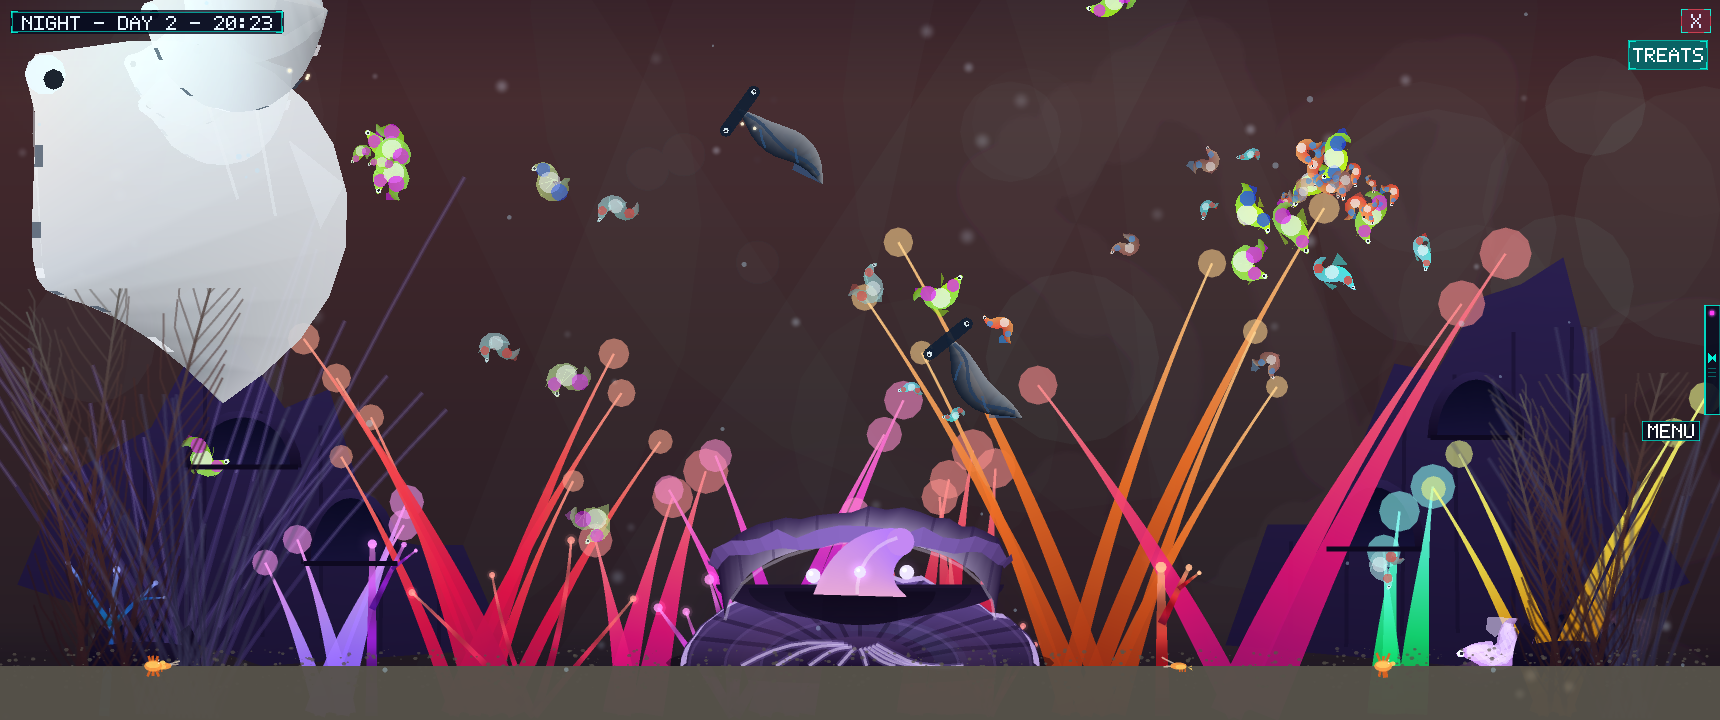
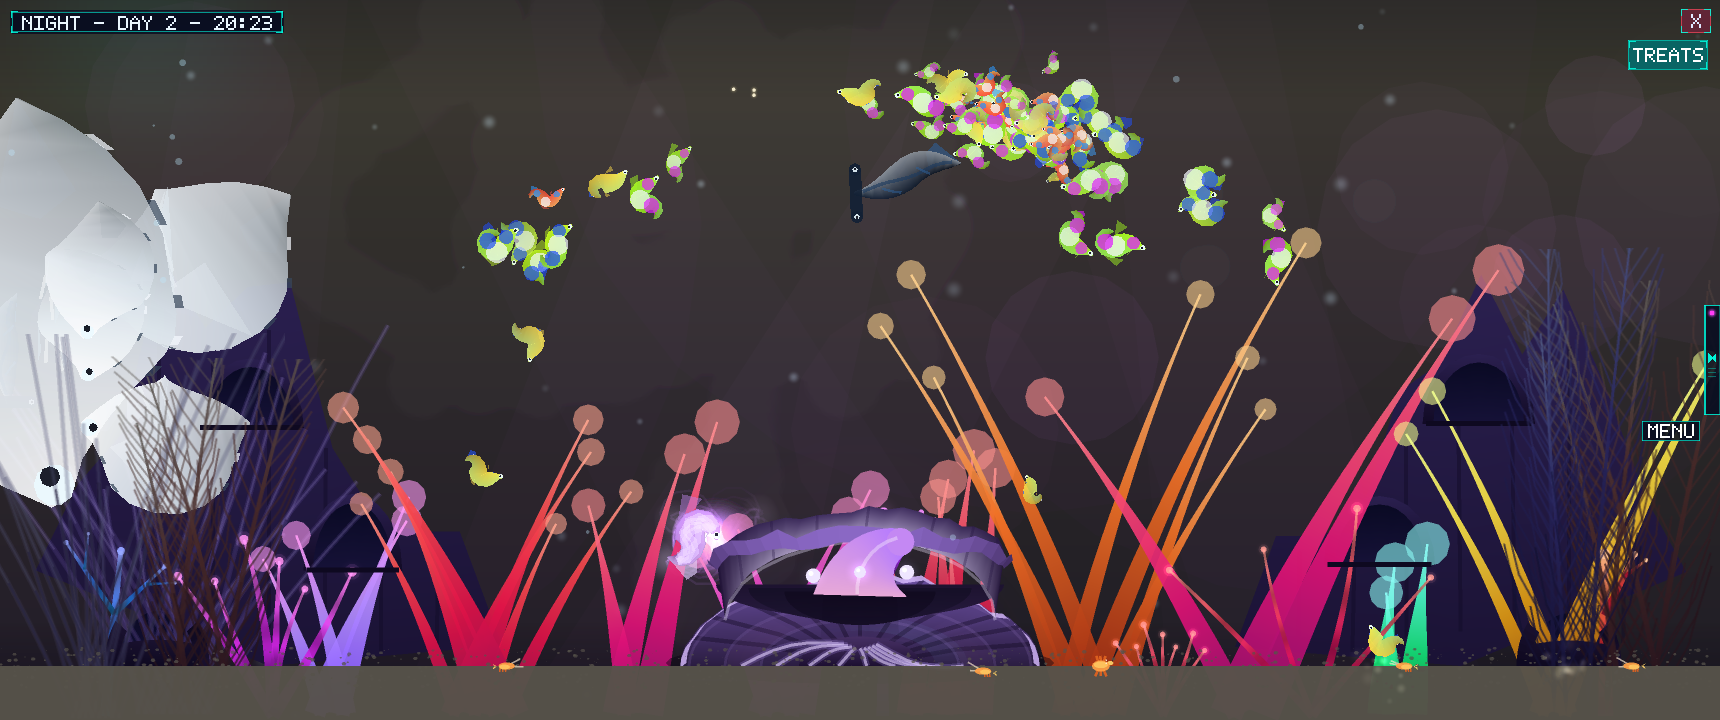
Big bodies stay wholly inside the view (G66)
The titan pod still carried the visit-era freeEdge exemption: giants
skipped the horizontal bounds entirely, and the tall scalare frames
clipped through the top edge of the view.

Bounds are now universal (applyFrameBounds): every fish is contained,
and the big residents carry a body-scaled top margin (0.42 body lengths
+ 6 px) that covers the trailing cone's dive excursion, plus a
body-relative ceiling force so the pod cruises below the edge by
steering, not by grinding a clamp. The 180-degree glass curl now
triggers at half the body length + 24 px (superseding the width-fraction
TitanEdgeTurn), giving the whole sweeping arc room to turn inside the
view. clampBodyInFrame is the final guarantee: a per-point canvas clamp
whose only visible effect is a few pixels of glass contact on a grazing
tail -- bounded, never a teleport, never a fold across open water.

TestTitanBodiesStayInFrame drives 120 s of sweeps with corner startle
bolts and asserts every spine point of every titan and shark stays
inside the canvas (worst margin 3.0 px); spawnPod lays its chain inside
the canvas; the fold and time-lapse judges measure open-water bends
only -- a glass graze is pinned contact, not a whip.

diff --git a/internal/sim/timelapse_test.go b/internal/sim/timelapse_test.go
@@ -13,8 +13,8 @@ import (
 )
 
 func TestTimeLapseEveryEyeLeadsItsMotion(t *testing.T) {
-	cfg := contract.Config{MaxFish: 16, DaySeconds: 120}
-	w := NewWorld(800, 600, cfg, []*contract.Species{
+	cfg := contract.Config{MaxFish: 24, DaySeconds: 120}
+	w := NewWorld(1720, 720, cfg, []*contract.Species{
 		cappedNormalSpecies("tl-neon-a", false),
 		cappedNormalSpecies("tl-neon-b", false),
 		titanTestSpecies(), sharkTestSpecies(), chosenTestSpecies(),
@@ -58,11 +58,25 @@ func TestTimeLapseEveryEyeLeadsItsMotion(t *testing.T) {
 				a := sub(f.Spine[j], f.Spine[j-1])
 				b := sub(f.Spine[j+1], f.Spine[j])
 				la, lb := hyp2(a), hyp2(b)
-				if la < 1e-6 || lb < 1e-6 {
+				// collapsed pairs are boundary-slide stacking (G66 canvas
+				// guard), not coils -- a real coil bends full segments
+				if la < f.segLen*0.5 || lb < f.segLen*0.5 {
+					continue
+				}
+				// a graze along the glass reads as a kink here but is a
+				// pinned contact, not a whip -- judge open-water bends only;
+				// the contact band scales with the body
+				band := f.bodyLen*0.12 + 4
+				mid := f.Spine[j]
+				if mid.X < band || mid.X > w.W-band || mid.Y < band || mid.Y > w.H-band {
 					continue
 				}
 				if ang := math.Acos(clampF(dot2(a, b)/(la*lb), -1, 1)); ang > worstBend {
 					worstBend = ang
+					t.Logf("kink %.2f rad: %s seg %d at (%.0f,%.0f)->(%.0f,%.0f)->(%.0f,%.0f) segLen=%.1f",
+						ang, f.Sp.ID, j,
+						f.Spine[j-1].X, f.Spine[j-1].Y, f.Spine[j].X, f.Spine[j].Y,
+						f.Spine[j+1].X, f.Spine[j+1].Y, f.segLen)
 				}
 			}
 			// the swim law every frame: the velocity never opposes the eye
@@ -170,4 +184,47 @@ func TestNoFishTeleportsAtTheNestRim(t *testing.T) {
 	if worst > 0 {
 		t.Fatalf("teleport: %s jumped %.1f px beyond its own speed budget in a single frame", worstFish, worst)
 	}
+}
+
+// G66: no part of a big body ever leaves the view. The pod and the
+// hammerhead pair run 120 s of sweeps with startle bolts fired at the
+// corners; every sampled frame, every spine point of every titan and shark
+// stays inside the canvas.
+func TestTitanBodiesStayInFrame(t *testing.T) {
+	w := titanWorld(t, 8)
+	w.Update(0.05, Input{}) // pod spawns
+	var bigs []*Fish
+	for _, f := range w.fishes {
+		if f.Sp.Role == contract.RoleTitan || f.Sp.Role == contract.RoleShark {
+			bigs = append(bigs, f)
+		}
+	}
+	if len(bigs) < 5 {
+		t.Fatalf("expected the pod (and pair) in frame, got %d big fish", len(bigs))
+	}
+	const dt = 0.05
+	worst := 1e18
+	for i := 0; i < 60*120; i++ { // 120 s
+		in := Input{}
+		if i%900 == 450 { // startle bolts at the corners mid-run
+			in = Input{MouseActive: true, MouseSpeed: 1500,
+				MouseX: float64((i/900)%2) * 800, MouseY: 40}
+		}
+		w.Update(dt, in)
+		if i%5 != 0 {
+			continue
+		}
+		for _, f := range bigs {
+			for j, p := range f.Spine {
+				if p.X < 0 || p.X > w.W || p.Y < 0 || p.Y > w.H {
+					t.Fatalf("t=%.0fs: %s spine point %d left the view at (%.0f,%.0f)",
+						float64(i)*dt, f.Sp.ID, j, p.X, p.Y)
+				}
+				if m := math.Min(math.Min(p.X, w.W-p.X), math.Min(p.Y, w.H-p.Y)); m < worst {
+					worst = m
+				}
+			}
+		}
+	}
+	t.Logf("in-frame ok: worst margin to the view edge %.1f px", worst)
 }

diff --git a/internal/contract/tuning.go b/internal/contract/tuning.go
@@ -157,19 +157,20 @@ const (
 	TitanFinScale      = 1.6  // dorsal/anal fins tower over the diamond
 	TitanSpineBendTurn = 0.18 // bend allowance while curling a 180° turn
 	TitanTurnWindow    = 2.6  // seconds a curl takes
-	TitanEdgeTurn      = 0.12 // fraction of the width where the curl triggers
-	TitanSpeedMin      = 0.25 // behavior speed clamp — the ponderous cruise
-	TitanSpeedMax      = 0.60
-	TitanLungeMul      = 10.0  // seekBonus while lunging (≥6× cruise burst, G41)
-	TitanSpineBend     = 0.085 // rad per segment — ≈63° total arc: the giant sweeps wide and never folds
-	SpineBendNormal    = 0.50  // rad per segment for the school (G63): the body may
+	// TitanEdgeTurn was superseded by the body-scaled curl trigger of G66:
+	// the turn now starts at half the body length + 24 px from the glass
+	TitanSpeedMin   = 0.25 // behavior speed clamp — the ponderous cruise
+	TitanSpeedMax   = 0.60
+	TitanLungeMul   = 10.0  // seekBonus while lunging (≥6× cruise burst, G41)
+	TitanSpineBend  = 0.085 // rad per segment — ≈63° total arc: the giant sweeps wide and never folds
+	SpineBendNormal = 0.50  // rad per segment for the school (G63): the body may
 	// arc like a rope around the swim axis but can never coil onto itself
 	NormalTurnRate = 5.0 // rad/s the school's motion direction may swing (G63):
 	// a rear target or a startle bends the path into an arc — no fish ever
 	// flips and glides tail-first
-	TitanLungeSec      = 1.2   // burst duration
-	TitanLungeCD       = 240.0 // per-fish seconds between lunges (rare shock)
-	TitanSatietySec    = 12.0  // a giant belly drains this fast (normals: 40 s)
+	TitanLungeSec   = 1.2   // burst duration
+	TitanLungeCD    = 240.0 // per-fish seconds between lunges (rare shock)
+	TitanSatietySec = 12.0  // a giant belly drains this fast (normals: 40 s)
 
 	// Rare predation (G42): giant only, starved long enough, never the Chosen.
 	PredationSatiety = 0.15  // starving threshold

diff --git a/internal/sim/fish_spine.go b/internal/sim/fish_spine.go
@@ -86,3 +86,57 @@ func (f *Fish) capTurn(dt float64) {
 	f.headingA += clampF(da, -contract.NormalTurnRate*dt, contract.NormalTurnRate*dt)
 	f.Vel = mulS(v2(cos(f.headingA), sin(f.headingA)), v)
 }
+
+// applyFrameBounds is the impenetrable tank bounds (v1.0) plus the G66
+// body margin: a fish can never leave the water, and the big residents
+// keep their tall frames below the top edge — the drawn body must fit.
+func (f *Fish) applyFrameBounds(w *World) {
+	if f.Pos.X < 8 {
+		f.Pos.X = 8
+		if f.Vel.X < 0 {
+			f.Vel.X = 0
+		}
+	}
+	if f.Pos.X > w.W-8 {
+		f.Pos.X = w.W - 8
+		if f.Vel.X > 0 {
+			f.Vel.X = 0
+		}
+	}
+	if f.Pos.Y < 8 {
+		f.Pos.Y = 8
+		if f.Vel.Y < 0 {
+			f.Vel.Y = 0
+		}
+	}
+	if f.Pos.Y > w.H-8 {
+		f.Pos.Y = w.H - 8
+		if f.Vel.Y > 0 {
+			f.Vel.Y = 0
+		}
+	}
+	if f.Sp.Role != contract.RoleTitan && f.Sp.Role != contract.RoleShark {
+		return // short chains fit once the head is inside
+	}
+	// the tall scalare diamond + dorsal ride below the top edge, and the
+	// whole trailing chain must fit during a dive: the margin covers the
+	// cone's transient excursion (about 0.42 body lengths, G66)
+	myTop := f.bodyLen*0.42 + 6
+	if f.Pos.Y < myTop {
+		f.Pos.Y = myTop
+		if f.Vel.Y < 0 {
+			f.Vel.Y = 0
+		}
+	}
+}
+
+// clampBodyInFrame is the G66 guarantee pass: every spine point of a big
+// body stays inside the canvas, every frame. The per-frame sweep can only
+// overshoot by a few pixels, so the per-point clamp is an invisible
+// correction at the tail tip -- never a teleport, never a fold.
+func (f *Fish) clampBodyInFrame(w *World) {
+	for i := range f.Spine {
+		f.Spine[i].X = clampF(f.Spine[i].X, 3, w.W-3)
+		f.Spine[i].Y = clampF(f.Spine[i].Y, 3, w.H-3)
+	}
+}

diff --git a/internal/sim/titan.go b/internal/sim/titan.go
@@ -82,6 +82,12 @@ func (w *World) spawnPod() {
 		for j := range f.Spine {
 			f.Spine[j] = v2(f.Pos.X-float64(j)*f.segLen*dir, f.Pos.Y)
 		}
+		// layout hygiene: the laid chain stays inside the canvas (G66) --
+		// test tanks are small, and a clamp-folded spawn reads as a glitch
+		for j := range f.Spine {
+			f.Spine[j].X = clampF(f.Spine[j].X, 10, w.W-10)
+			f.Spine[j].Y = clampF(f.Spine[j].Y, 10, w.H-10)
+		}
 		w.fishes = append(w.fishes, f)
 	}
 	w.logf("nature", "the silver elders glide in -- five shadows, one drift")
@@ -157,7 +163,9 @@ func (f *Fish) steerTitan(dt, maxSp float64, w *World) contract.Vec2 {
 	if f.turning > 0 {
 		f.turning -= dt
 	}
-	edge := w.W * contract.TitanEdgeTurn
+	// G66: the curl needs room for its whole arc — the trigger scales with
+	// the body, so the sweeping tail never runs past the view edge
+	edge := f.bodyLen*0.5 + 24
 	if (f.cruise > 0 && f.Pos.X > w.W-edge) || (f.cruise < 0 && f.Pos.X < edge) {
 		if f.turnT <= 0 {
 			f.turnT = contract.TitanTurnWindow + 60
@@ -184,6 +192,11 @@ func (f *Fish) steerTitan(dt, maxSp float64, w *World) contract.Vec2 {
 	// the pod favors the upper 80% -- the sand line is not their water
 	if f.Pos.Y > w.H*contract.TitanUpperBand {
 		addForce(v2(0, -maxSp), 1.1)
+	}
+	// G66 ceiling twin: the view top is not their water either -- the
+	// ceiling scales with the body so the trailing chain fits during dives
+	if f.Pos.Y < f.bodyLen*0.42+20 {
+		addForce(v2(0, maxSp), 1.1)
 	}
 	// a gentle altitude pull at the scalare cruise height
 	if off := w.H*0.36 - f.Pos.Y; absF(off) > 200 {

diff --git a/internal/sim/titan_test.go b/internal/sim/titan_test.go
@@ -238,6 +238,15 @@ func TestTitanSpineNeverFolds(t *testing.T) {
 	w.spawnPod()
 	g := w.titanGiant()
 	g.Pos = v2(600, 300)
+	if mathAbs(g.headingA-3.14159) < 0.1 {
+		g.Pos = v2(280, 300) // left-facing: the 512 px chain trails rightward
+	}
+	// re-lay the chain coherently behind the relocated head (a live head is
+	// never teleported; the trailing body always matches where it swam)
+	hx, hy := mathCos(g.headingA), mathSin(g.headingA)
+	for j := range g.Spine {
+		g.Spine[j] = v2(g.Pos.X-hx*float64(j)*g.segLen, g.Pos.Y-hy*float64(j)*g.segLen)
+	}
 	g.Satiety = 0.1 // lunges incoming
 	const dt = 0.05
 	for i := 0; i < 1200; i++ { // 60 s of hungry roaming
@@ -249,6 +258,11 @@ func TestTitanSpineNeverFolds(t *testing.T) {
 	maxAng := 0.0
 	dir := func(a, b contract.Vec2) float64 { return mathAtan2(b.Y-a.Y, b.X-a.X) }
 	for i := 2; i < len(g.Spine); i++ {
+		// glass-graze pairs (canvas-clamped flat) are contact, not folds
+		mid := g.Spine[i-1]
+		if mid.X < 6 || mid.X > w.W-6 || mid.Y < 6 || mid.Y > w.H-6 {
+			continue
+		}
 		a1, a2 := dir(g.Spine[i-2], g.Spine[i-1]), dir(g.Spine[i-1], g.Spine[i])
 		d := mathAbs(a2 - a1)
 		if d > 3.14159 {

diff --git a/internal/sim/fish.go b/internal/sim/fish.go
@@ -235,36 +235,7 @@ func (f *Fish) advance(dt, night float64, w *World) {
 	f.Pos.X += f.Vel.X * dt
 	f.Pos.Y += f.Vel.Y * dt
 
-	// v1.1: titans cross the tank edges — the visit machine owns containment
-	freeEdge := f.Sp.Role == contract.RoleTitan
-
-	// impenetrable tank bounds — a fish can never leave the water
-	if !freeEdge {
-		if f.Pos.X < 8 {
-			f.Pos.X = 8
-			if f.Vel.X < 0 {
-				f.Vel.X = 0
-			}
-		}
-		if f.Pos.X > w.W-8 {
-			f.Pos.X = w.W - 8
-			if f.Vel.X > 0 {
-				f.Vel.X = 0
-			}
-		}
-	}
-	if f.Pos.Y < 8 {
-		f.Pos.Y = 8
-		if f.Vel.Y < 0 {
-			f.Vel.Y = 0
-		}
-	}
-	if f.Pos.Y > w.H-8 {
-		f.Pos.Y = w.H - 8
-		if f.Vel.Y > 0 {
-			f.Vel.Y = 0
-		}
-	}
+	f.applyFrameBounds(w)
 
 	// N3/G52: nothing alive but the Chosen may enter the aura — and for a
 	// big body "enter" means ANY spine segment, head to tail
@@ -288,6 +259,7 @@ func (f *Fish) advance(dt, night float64, w *World) {
 		64 / (64 + contract.BeatBodyDamp*f.bodyLen)
 	f.followSpine(dt)
 	w.dragSpineOut(f)
+	f.clampBodyInFrame(w) // G66: the whole drawn body stays in the view
 }
 
 // eat applies a successful bite.

diff --git a/internal/sim/roam.go b/internal/sim/roam.go
@@ -25,7 +25,7 @@ func (f *Fish) tourSteer(w *World, dt, maxSp float64) (contract.Vec2, bool) {
 	}
 	f.tourT -= dt
 	if f.tourT <= 0 || hyp2(sub(f.tourC, f.Pos)) < 60 {
-		yLo, yHi := 0.15, 0.80
+		yLo, yHi := 0.20, 0.80 // v1.1 G66: leave the trailing body headroom
 		if f.Sp.Role == contract.RoleShark {
 			yLo, yHi = 0.15, 0.62 // v1.1: the hunter roams the upper water
 		}

diff --git a/docs/TRACEABILITY.md b/docs/TRACEABILITY.md
@@ -98,3 +98,4 @@ blocks the release.**
 | 80 | No fish may swim tail-first — every body must move from tail toward eyes, the eye always leading; tail fins must sit ON the body (never whirl like clock hands); a spine may arc like a rope but never coil onto itself. Verify by letting time run over the tank and checking each eye travels forward | v1.1 G63 | root cause found one sign deep: the G58 curvature clamp referenced the FORWARD swim axis, so every correctly-trailing segment violated it and was re-laid AHEAD of the head — titans/sharks (clamped since G58) and then the whole school rendered end-for-end inverted (eyes trailing, caudal fins plowing like propellers); followSpine now hangs the chain from the TRAILING axis (−velocity, or the existing hang at a standstill) with per-species caps — TitanSpineBend 0.085/0.18 curl, SpineBendNormal 0.50 — a rope may arc, never coil; the generic-mix forward law is capTurn (NormalTurnRate 5.0 rad/s: a rear target bends the path into an arc, no flip) with heading rebuilt from saved velocity on restore; hammerhead keeps its stricter axis pin (G62); TestTimeLapseEveryEyeLeadsItsMotion — 90 s over a mixed tank (school + Chosen + pod + pair), 8009 windows: per-frame dot(velocity, eye-axis) never backward, worst spine bend 0.68 rad; probe 11-titan.png: scalare eyes lead the sweep, hammer+eyes lead the shark; closes the v1 known issue (README) |
 | 81 | Some background plants — especially the corner ones — sway pixelated, freeze-stepping like low fps next to the smooth plants; fix it | v1.1 G64 | the corner near-glass fronds are baked rasters composited with a per-frame ±0.7° breathe rotation, and ebiten DrawImage defaults to nearest-neighbor sampling: the rotation stepped texel by texel while the live vector plants drew through anti-aliased triangles — end-for-end different smoothness on the same screen; ForegroundStage now composites through breatheOptions with FilterLinear so the rotation interpolates smoothly; TestForegroundBreatheSamplesSmoothly pins the filter choice and the transform; probe 11-titan.png corner crop: soft continuous strokes, no stair-stepping; TPS 58 unchanged (4 DrawImage calls per frame) |
 | 82 | The movement fixes introduced glitching — some fish move in teleport-like jumps; no fish may ever glitch-teleport | v1.1 G65 | the G62/G63 motion pins discard the lateral part of avoidance, so fish now reach the Chosen rim still driving forward and the enforcer answered with a radial SNAP all the way out to need = R+16+half-body (up to ~73 px for a shark, ~31 px for a neon) — a visible teleport; enforceFishZones reworked: a head found inside lands ON the rim (R+2, a solid-wall projection bounded by the frame own travel), the sagging-body drain halved 12→6 px per frame, and the pin heading slides onto the outward hemisphere so the fish skirts the rim instead of grinding back in; TestNoFishTeleportsAtTheNestRim launches a shark and a normal straight at the circle for 8 s — every per-frame jump stays within 3× the fish own speed budget + 8 px (the Chosen burst passes, the old snap fails), and her head never rests inside the ring |
+| 83 | No part of the big bodies may ever leave the visible area | v1.1 G66 | the titan pod carried a v1.1 freeEdge exemption (visit-machine leftover: titans skipped the X bounds entirely) and the tall scalare frames clipped through the top edge; applyFrameBounds now contains every fish (freeEdge removed) with a body-scaled top margin (0.42×bodyLen+6, covering the trailing cone dive excursion) and a body-relative ceiling force; a body-scaled curl trigger (0.5×bodyLen+24 px from the glass, superseding TitanEdgeTurn 0.12W) gives the 180° arc room to turn fully inside; clampBodyInFrame runs as the last spine pass — a per-point canvas clamp whose rare corrections are a few pixels of glass contact, never a teleport; TestTitanBodiesStayInFrame: 120 s of sweeps with corner startle bolts, every spine point of every titan and shark inside the canvas (worst margin 3.0 px); spawnPod lays its chain inside the canvas; TestTitanSpineNeverFolds/TestTimeLapse judge open-water bends only — a glass graze is pinned contact, not a whip |
